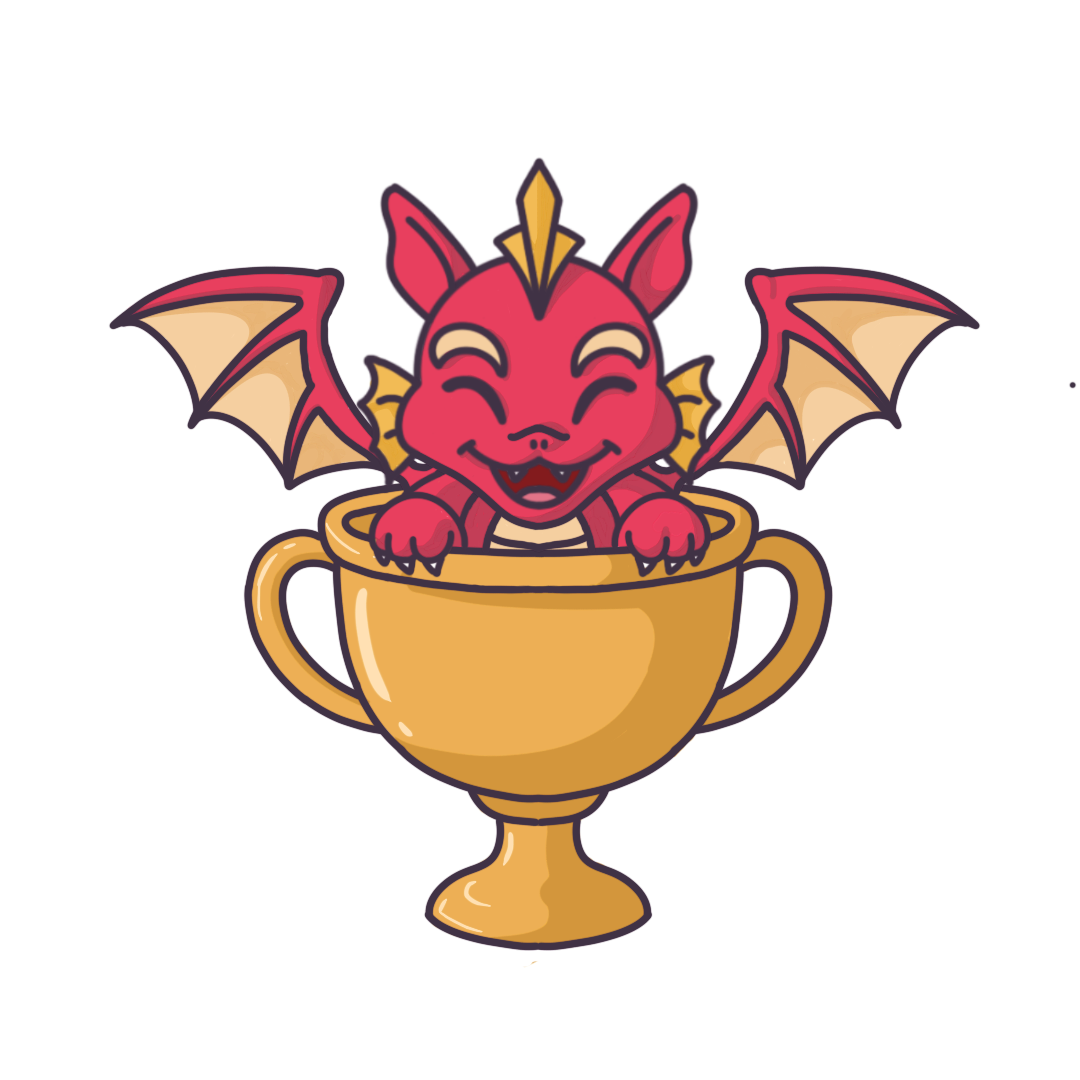
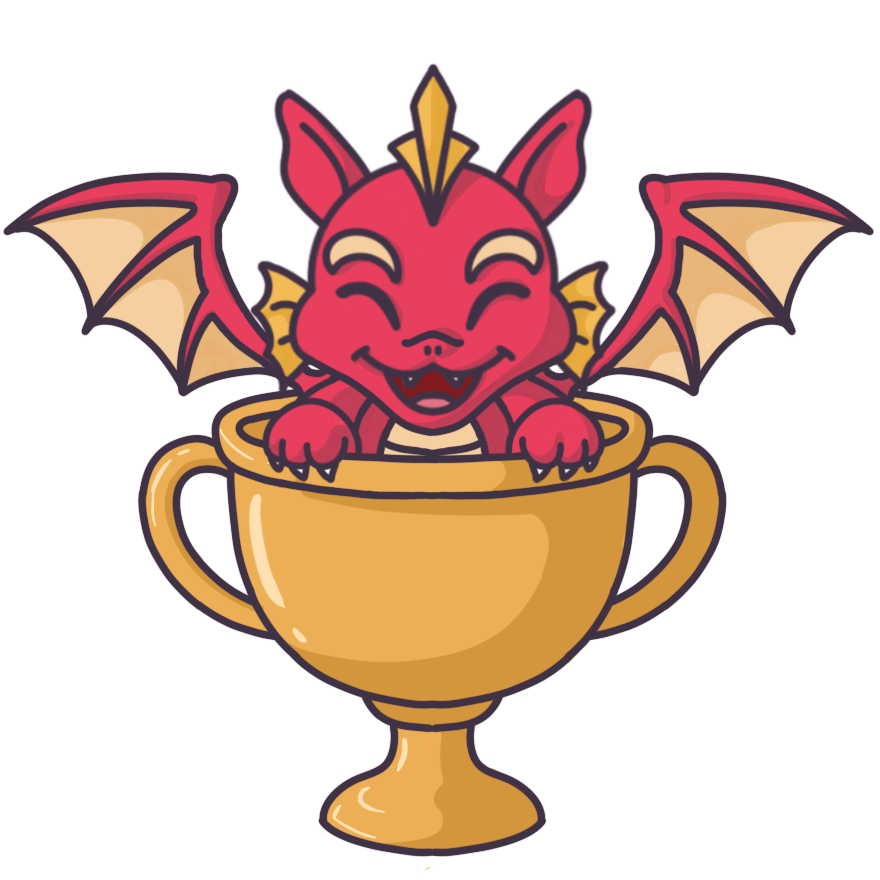
Feature 3005: Fixed winning and loosing screen's UI for computer screen displays. Croped the winning and losing imaged to fit better in the game.

diff --git a/client/src/pages/Game/LoserScreen.tsx b/client/src/pages/Game/LoserScreen.tsx
@@ -28,19 +28,22 @@ const LoserScreen: React.FC = () => {
     // <div>
     //   You Lost!
     // </div>
-    <div className="fixed inset-0 flex flex-col items-center justify-center bg-ronchi">
+    <div className="fixed inset-0 flex flex-col items-center justify-center bg-ronchi ">
               
       <GenericHeader color="red">
         <OutlineText size="extraLarge">DEFEATED!</OutlineText>
       </GenericHeader>
-      <div className="bg-peach flex items-center justify-around border-[4px] border-blackCurrant w-[90%] h-[80%] rounded-xl mt-[10%]">
+      <div className="bg-peach flex items-center flex flex-col justify-around border-[4px] border-blackCurrant w-[90%] h-[75%] rounded-xl mt-[10%] xl:mt-[8%] xl: space-y-0 pl-[10%] pr-[10%] pt-[2%] text-center">
         {/* <BaseCard color="peach" width={60} height={70}> */}
         
-          <div className="flex flex-col items-center justify-center">
-            <OutlineText size="large">BETTER LUCK</OutlineText>
-            <OutlineText size="large">NEXT TIME!</OutlineText>
-  
-            <img style={{ width: `${40}rem`, height: `${40}rem` }} src={`/GRAVE.png`} alt={`GRAVE image`} />
+          {/* <div className="flex flex-col items-center justify-center space-y-1"> */}
+            {/* <OutlineText size="large">BETTER LUCK</OutlineText>
+            <OutlineText size="large">NEXT TIME!</OutlineText> */}
+            
+            <OutlineText size="large">BETTER LUCK NEXT TIME!</OutlineText>
+            
+            {/* <img style={{ width: `${40}rem xl:${30}rem`, height: `${40}rem xl:${30}rem` }} src={`/GRAVE.png`} alt={`GRAVE image`} /> */}
+            <img className="w-[40rem] h-[40rem] xl:w-[20rem] xl:h-[20rem]" src={`/GRAVE.png`} alt={`GRAVE image`} />
   
             <ButtonGeneric
               color="red"
@@ -53,7 +56,7 @@ const LoserScreen: React.FC = () => {
                 </div>
               </div>
             </ButtonGeneric>
-          </div>
+          {/* </div> */}
         
         {/* </BaseCard> */}
         

diff --git a/client/src/pages/Game/WinnerScreen.tsx b/client/src/pages/Game/WinnerScreen.tsx
@@ -63,14 +63,13 @@ const WinnerScreen: React.FC<WinningScreenProps> = ({playerMonster}) => {
       <GenericHeader color="blue">
         <OutlineText size="extraLarge">VICTORY!</OutlineText>
       </GenericHeader>
-      <div className="bg-peach flex items-center justify-around border-[4px] border-blackCurrant w-[90%] h-[80%] rounded-xl mt-[10%]">
+      <div className="bg-peach flex items-center flex flex-col justify-around border-[4px] border-blackCurrant w-[90%] h-[75%] rounded-xl mt-[10%] xl:mt-[8%] xl: space-y-0 pl-[10%] pr-[10%] pt-[2%] text-center">
         {/* <BaseCard color="peach" width={60} height={70}> */}
         
-          <div className="flex flex-col items-center justify-center">
-            <OutlineText size="large">YOU ARE THE</OutlineText>
-            <OutlineText size="large">WINNER!</OutlineText>
+          
+            <OutlineText size="large">BETTER LUCK NEXT TIME!</OutlineText>
   
-            <img style={{ width: `${40}rem`, height: `${40}rem` }} src={`/${playerMonster.id}_WIN.png`} alt={`${playerMonster.id}_WIN image`} />
+            <img className="w-[40rem] h-[40rem] xl:w-[20rem] xl:h-[20rem]" src={`/${playerMonster.id}_WIN.png`} alt={`${playerMonster.id}_WIN image`} />
   
             <ButtonGeneric
               color="red"
@@ -83,7 +82,7 @@ const WinnerScreen: React.FC<WinningScreenProps> = ({playerMonster}) => {
                 </div>
               </div>
             </ButtonGeneric>
-          </div>
+          
         
         {/* </BaseCard> */}
         
